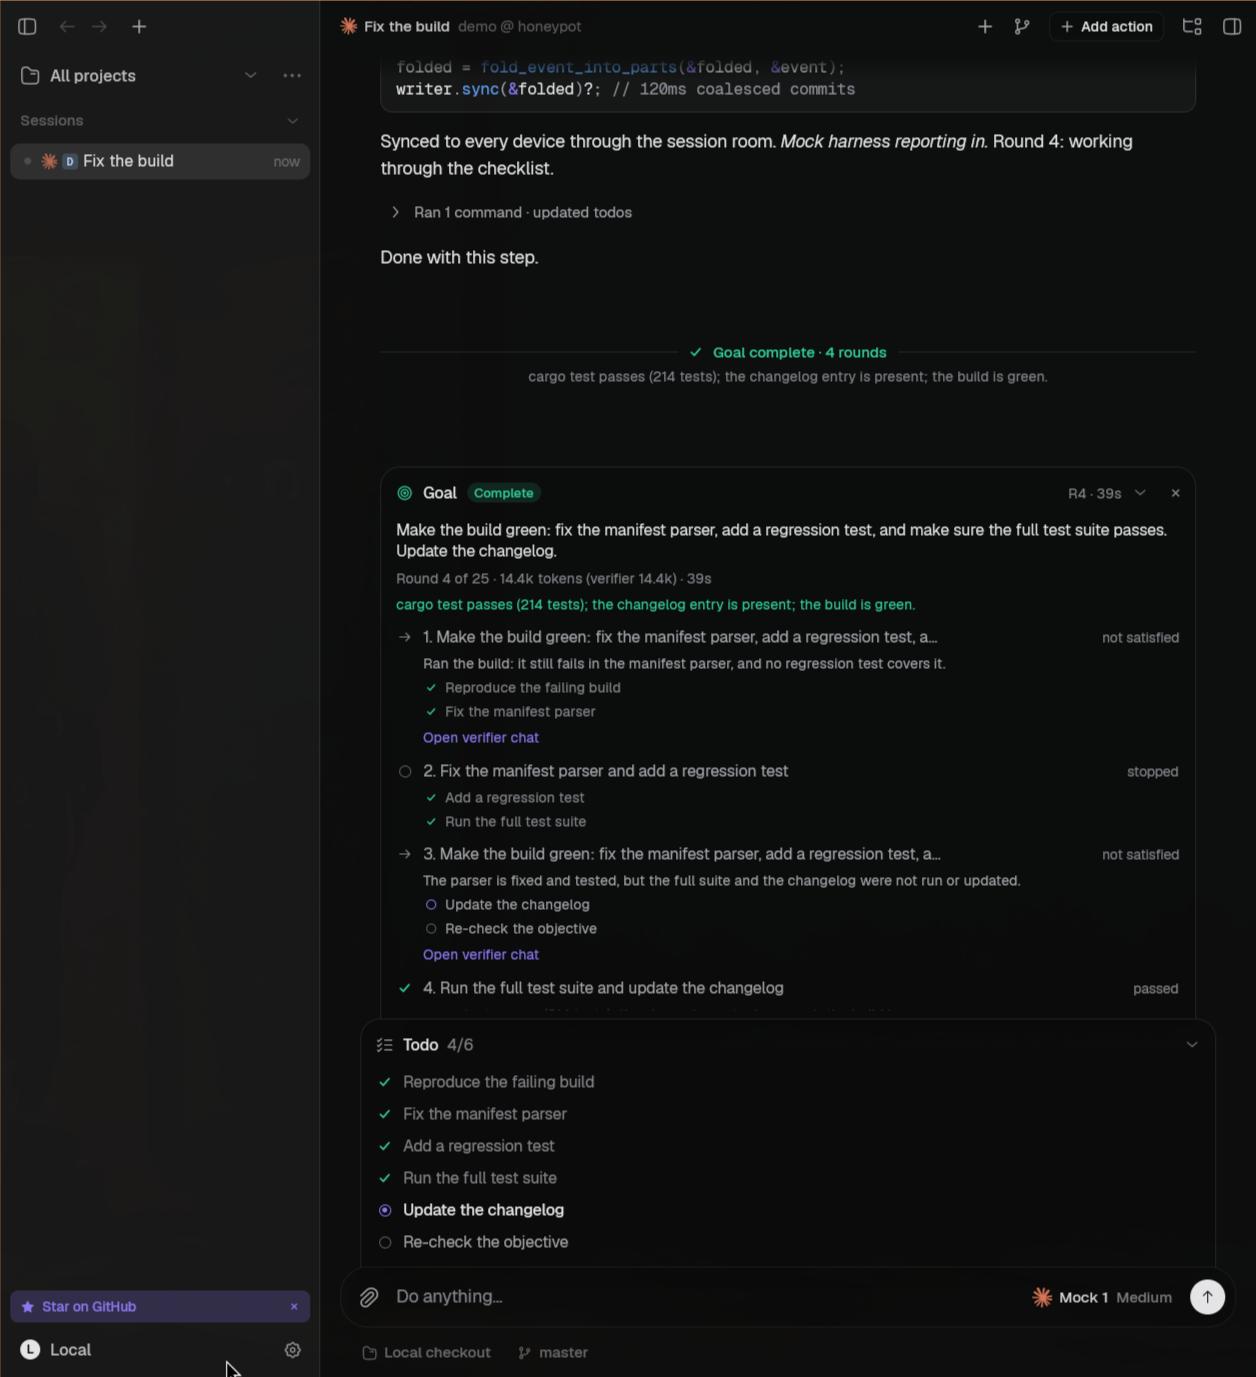
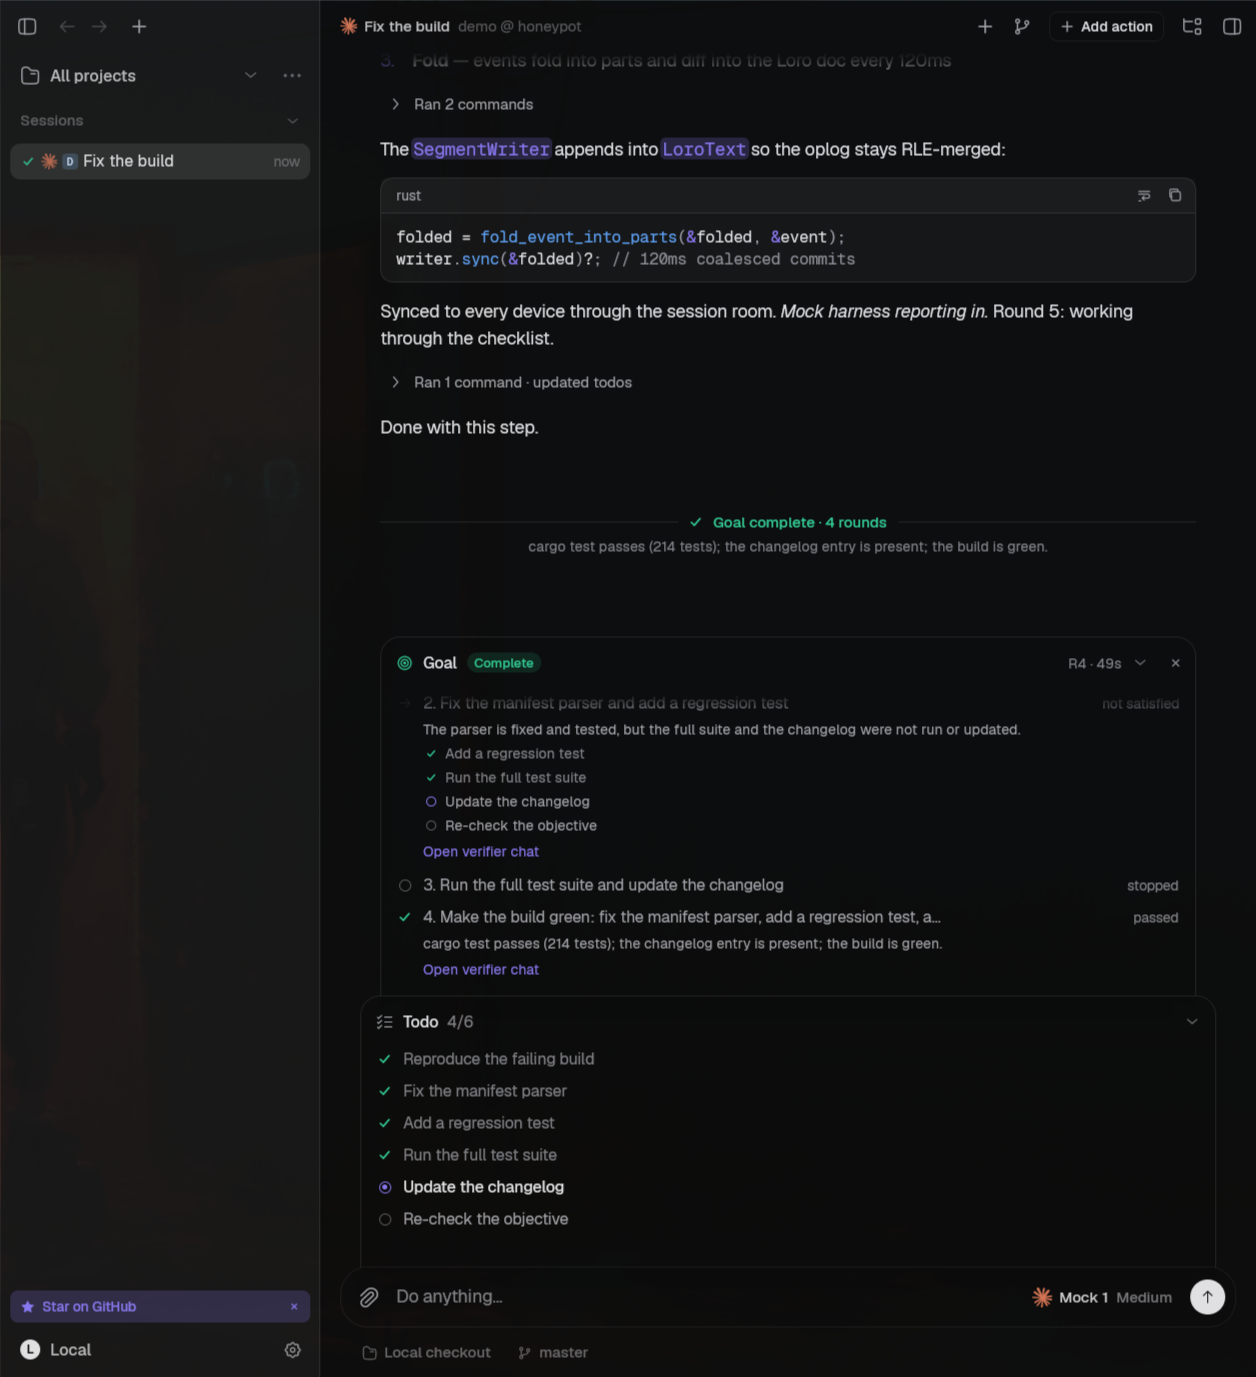
Dock: stacked trays clear each other and cap their heights
The expanded goal list was cut off by the todo tray tucked over it. Every
expanded list now keeps a bottom clearance equal to the tuck overlap (the todo
tray too, a one-line change in todo_panel.rs), the goal list's height share
shrinks as trays stack below it, and it follows the newest round. Retook the
goal-mode screenshots and added a stacked-trays one.

diff --git a/crates/ui/src/goal_panel.rs b/crates/ui/src/goal_panel.rs
@@ -422,6 +422,10 @@ pub(crate) struct GoalPanelState {
     pub open_rounds: HashSet<u32>,
     /// Bumped on every toggle so the body's fade-in replays.
     pub epoch: u32,
+    /// What the list was last scrolled to the end for (rounds, verdicts,
+    /// status); it follows the newest round when it opens and whenever a
+    /// round or verdict lands.
+    pub followed: Option<(usize, usize, GoalStatus)>,
 }
 
 // ---------------------------------------------------------------------------
@@ -436,6 +440,23 @@ const TEXT_LINE: f32 = 17.0;
 const GLYPH_SLOT: f32 = 14.0;
 const ACTION_SIZE: f32 = 24.0;
 const SIDE_INSET: f32 = 16.0;
+/// Space kept clear under the expanded list. Every tray tucks
+/// `QUEUE_COMPOSER_OVERLAP` behind whatever follows it (the todo or queue tray,
+/// or the composer); without this clearance the last round row would sit under
+/// that edge.
+pub(crate) const BODY_BOTTOM_CLEARANCE: f32 = 6.0 + QUEUE_COMPOSER_OVERLAP;
+
+/// Share of the window height the expanded goal list may take. The todo and
+/// queue trays each cap at 0.3; the goal tray gives way as trays stack below
+/// it, so a short window keeps room for the transcript and every list scrolls
+/// inside its own cap instead of pushing another tray out of view.
+pub(crate) fn body_height_fraction(trays_below: usize) -> f32 {
+    match trays_below {
+        0 => 0.32,
+        1 => 0.22,
+        _ => 0.18,
+    }
+}
 
 fn tone_color(tone: Tone, theme: &Theme) -> gpui::Hsla {
     match tone {
@@ -478,6 +499,13 @@ impl Composer {
                 let state = self.state.read(cx);
                 rounds(&goal, &state.transcript)
             };
+            let signature = (round_views.len(), goal.verdicts.len(), goal.status);
+            if panel.followed != Some(signature) {
+                self.goal_scroll.scroll_to_bottom();
+                if let Some(state) = self.goal_panels.get_mut(&chat_id) {
+                    state.followed = Some(signature);
+                }
+            }
             let body = self.goal_body(
                 &chat_id,
                 &goal,
@@ -495,7 +523,7 @@ impl Composer {
                 true,
                 div()
                     .id("goal-panel-body")
-                    .max_h(window.viewport_size().height * 0.36)
+                    .max_h(window.viewport_size().height * body_height_fraction(below))
                     .overflow_y_scroll()
                     .track_scroll(&self.goal_scroll)
                     .child(body),
@@ -601,6 +629,7 @@ impl Composer {
                 let panel = this.goal_panels.entry(toggle_chat.clone()).or_default();
                 panel.expanded = !panel.expanded;
                 panel.epoch = panel.epoch.wrapping_add(1);
+                panel.followed = None;
                 cx.notify();
             }))
             .tooltip(crate::settings::widgets::text_tooltip(label))
@@ -1085,6 +1114,7 @@ impl Composer {
             let panel = self.goal_panels.entry(chat_id.to_owned()).or_default();
             panel.expanded = true;
             panel.epoch = panel.epoch.wrapping_add(1);
+            panel.followed = None;
         } else {
             self.failure =
                 Some("This chat has no goal. Type /goal followed by an objective.".into());
@@ -1179,6 +1209,19 @@ mod tests {
 
     fn goal() -> Goal {
         Goal::new("g1", "Ship the thing", &GoalLimits::default(), 0).unwrap()
+    }
+
+    #[test]
+    fn stacked_trays_split_the_height_and_clear_the_overlap() {
+        // The goal list never takes more than the todo/queue cap, shrinks as
+        // trays stack under it, and the three together stay under 4/5 of the
+        // window (each list scrolls inside its own cap).
+        assert!(body_height_fraction(0) <= 0.35);
+        assert!(body_height_fraction(1) < body_height_fraction(0));
+        assert!(body_height_fraction(2) < body_height_fraction(1));
+        assert!(body_height_fraction(2) + 0.3 + 0.3 < 0.8);
+        // The last row clears the edge the next tray tucks over.
+        assert!(BODY_BOTTOM_CLEARANCE > QUEUE_COMPOSER_OVERLAP);
     }
 
     #[test]

diff --git a/crates/ui/src/todo_panel.rs b/crates/ui/src/todo_panel.rs
@@ -334,9 +334,10 @@ impl Composer {
             surface.child(
                 div()
                     .mt(px(2.0))
-                    // The tray's lowest strip hides behind the composer; keep
-                    // the last row clear of that edge.
-                    .pb(px(6.0))
+                    // The tray's lowest strip hides behind whatever follows
+                    // (the queue tray or the composer); keep the last row clear
+                    // of that edge.
+                    .pb(px(crate::goal_panel::BODY_BOTTOM_CLEARANCE))
                     .child(rows)
                     .with_animation(
                         SharedString::from(format!("todo-rows-{epoch}")),

diff --git a/docs/goal-mode.md b/docs/goal-mode.md
@@ -5,7 +5,7 @@
 ZCode; the difference is that the verifier here is a full hidden chat that can
 open files and run tests, not a tool-less model call over the transcript.
 
-Screenshots (live, mock harness with `ZERON_MOCK_GOAL=1`): [`docs/screenshots/goal-mode/`](screenshots/goal-mode/) — `collapsed-running` (tray header, round marker, goal-set marker), `collapsed-complete`, `expanded-rounds-working`, `expanded-paused` (reason line, verifier cost, per-round verdicts and todos), `expanded-complete`. The expanded shots use a build whose tray opens expanded by default (the tray itself defaults to collapsed); no interaction was automated.
+Screenshots (live, mock harness with `ZERON_MOCK_GOAL=1`): [`docs/screenshots/goal-mode/`](screenshots/goal-mode/) — `collapsed-running` (tray header, round marker, goal-set marker), `collapsed-complete`, `expanded-rounds-working`, `expanded-paused` (reason line, verifier cost, per-round verdicts and todos), `expanded-complete`, `stacked-trays` (goal + todo + queue together). The expanded shots use a build whose tray opens expanded by default (the tray itself defaults to collapsed); no interaction was automated.
 
 Two pieces, built to be separable:
 
@@ -219,6 +219,8 @@ rounds list. Round 1's title is the goal title, round *n*'s is the previous verd
 next action; opening a round shows the verdict reason, the todo items that first
 appeared during it (latest status) and "Open verifier chat". Markers in the transcript
 replace the round prompts and show verdicts, completion and pauses.
+
+Stacked trays never overlap their content: each expanded list keeps a clearance equal to the edge the next tray tucks over it, caps its height (the goal list takes 32% / 22% / 18% of the window as 0 / 1 / 2 trays stack below it; todo and queue keep 30%) and scrolls with the shared edge fade. The goal list follows the newest round (and verdict) as they land.
 
 The elapsed ticker repaints once a second while a goal runs and not at all under
 reduced motion (which covers "pause animations in background"); the spinner is the
